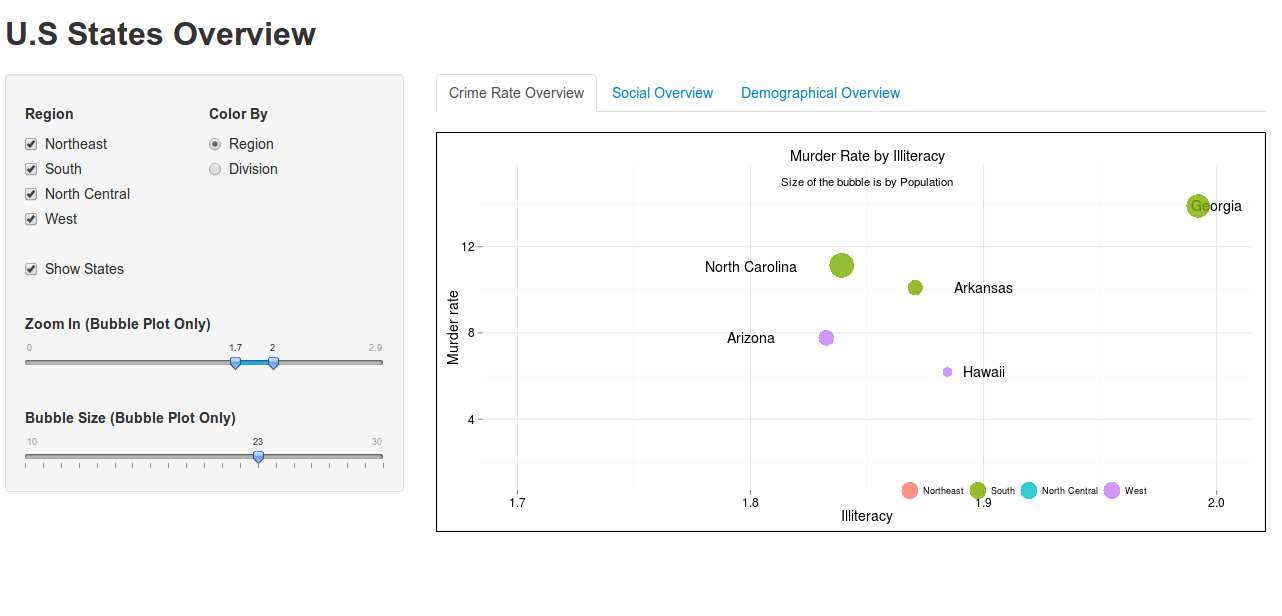
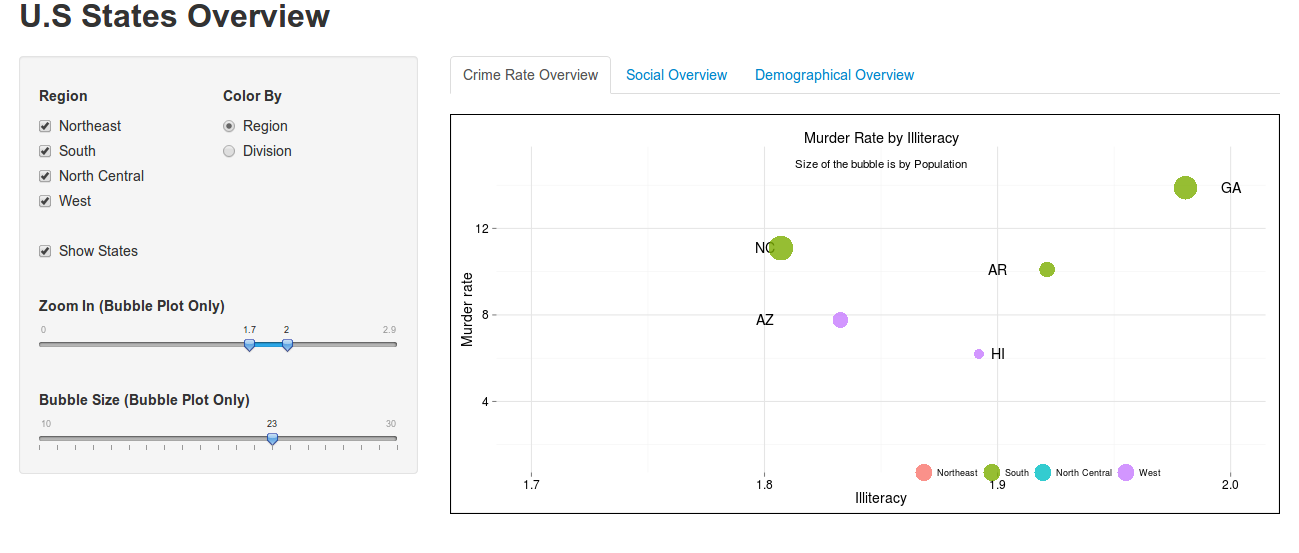
Updated the README, including using state codes instead of names and updated the code and screenshot too.

diff --git a/homework3/README.md b/homework3/README.md
@@ -23,53 +23,47 @@ shiny::runGitHub('msan622', 'deekshachugh', subdir = 'homework3')
 
 ###Crime Rate Overview###
 
+I was curious to know more about the illiteracy rate and its association with murder rate across all the states in U.S.. I chose bubble plot over Heatmap because certain attributes such as population, area of the state and other features can be shown using a Bubble Plot better.
 
-I was curious to know more about the various U.S states illiteracy rate and its association with Murder rate. I chose bubble plot over Heatmap because the attributes like population and area of the states along with other features can be well shown in the Bubble plot. 
-I included Murder rate, Illiteracy rate, State Names, Population and Region to show how illiteracy rate is related to Murder rate for different states of U.S. I chose regions or divisions to color the bubbles and shown state names on top of it.
-I tried to increase and decrease the size of the bubbles to see that it is visually appealing. 
+The bubble plot displays murder rate, illiteracy rate and population for each state. It also maps which region each of the state belongs to. Each state is marked by its state code and its color represents its region.
+The plot includes a slider to allow the user to change the size of the bubbles to make it visually appealing and more usable. 
 
-
-Here is the screenshot of the visualization.
+Here is the screenshot of the visualization:
 ![IMAGE](Technique1.png)
 
-There are various ways in which you can interact with this visualization.
-First, you can color the bubbles by region or division. Second, the bubbles can be filtered based on the region.
-Third, you can zoom into the visualization by selecting the range of x-axis. The bubble size can also be changed by the slider.
-
-You can also show states by checkbox:
-
+There are various ways in which the user can interact with this visualization:
+* Color the bubbles by region or division.
+* Filter based on the region.
+* Zoom into the visualization by selecting the range of x-axis.
+* Change the size of the bubbles using the slider.
+* Show/hide state codes, as shown in the image below.
 ![IMAGE](Technique10.png)
 
- The visualization helps us to see illiteracy rate by murder rate for different regions. The application also provides the state names and the population of the state which can be other factors for murder or illiteracy. Since a few of the bubbles are overlapping, the application provides a framework to zoom, which is helpful in answering particular questions like "What was the illiteracy rate in CA?"
+The visualization shows illiteracy rate by murder rate for different states and regions. The application provides the state code and the population of each state. Since some of the bubbles overlap, the application provides a framework to zoom, which is helpful in answering particular questions, such as "What was the illiteracy rate in CA?"
 
 
 ###Social Overview###
 
-I was interested in looking at how few features are interlinked in just one plot. The scatter plot matrix provides a way to look at a lot of features in one visualization.  I included Illiteracy, Life expectancy, Murder rate, and HS graduation because my hypothesis was that these should be highly dependent on each other. I colored the data points with different regions which will provide the holistic view of US and will help in inferences.
+I was interested in looking at how few features are interlinked in just one plot. The scatter plot matrix provides a way to look at a lot of features in one visualization.  I included illiteracy, life expectancy, murder rate, and HS graduation because my hypothesis was that these should be highly dependent on each other. I colored the data points based on regions to provide a holistic view and help in deriving inferences.
 
 
-The lower part of the matrix provides a view about how the various features are scattered. I changed the diagonal of the matrix to be the density of the features to get a rough idea about its distribution. The upper part of the scatter plot provides the actual correlation numbers which are helpful in making inferences about the data. I tried to color the points by Division as well but since there are 8 divisions it would be hard to see in small plots. I extracted each of the ggplots from the ggpairs to make customization like darkening the axes and changed the background from grey to white.
+The lower part of the matrix provides a view about how the various features are scattered. I changed the diagonal of the matrix to be the density of the features to get a rough idea about its distribution. The upper part of the scatter plot provides the actual correlation numbers. I have colored the points by division as well but since there are 8 divisions, it is a little hard to see in small plots. I extracted each of the ggplots from the ggpairs and appled customizations such as darkening the axes, changing the background from grey to white, etc.
 
-
-Here is the screenshot of the visualization.
+Here is the screenshot of the visualization:
 ![IMAGE](Technique2.png)
 
 
 You can filter the regions and see the distribution of each of the regions for all the features.
-I could not prvide the zoom in feature as the different plots in the matrix have different regions.
-By looking at the correlation values, we can see that Life expectancy has the highest correlation with Murder rate followed by Illiteracy and Murder and so on.
+I could not prvide the zoom feature as the different plots in the matrix have different regions.
+By looking at the correlation values, we can see that life expectancy has the highest correlation with murder rate, followed by illiteracy and so on.
 
 
 ###Demographical Overview###
 
-I chose this technique because it helps us to find patterns in our data with multiple features. I included Population, Area, Income and Frost level to show demographical overview of the US states. The lines in the plot are colored by regions or division based on what you select. I tried various scaling for the data and found the uniminmax works best for this dataset. I removed the actual values and bounded the data with just the limits. I removed the grid lines and changed the background to black as it is easier to see lines over black background.
+I chose this technique because it helps us to find patterns in our data with multiple features. I included population, area, income and frost level to show demographical overview of the US states. The lines in the plot are colored by regions or division, based on what the user selects. I tried using various scaling techniques on the data and found that `uniminmax` works best for this dataset. I removed the actual values and bound the data with just the limits. I removed the grid lines and changed the background to black as it is easier more appealing.
 
 
-Here is the screenshot of the visualization.
+Here is the screenshot of the visualization:
 ![IMAGE](Technique3.png)
 
-Any of the regions and division can be selected by the input box on the left side. The plot shows us the relationship between Population Area, Frost and Income of the state. West region has high frost compared to South. We can see that there are few outliers in the dataset which have very high population and very low area. 
-
-
-
-
+Any of the regions and division can be selected by the input box on the left side. The plot shows us the relationship between population, area, frost, and income of the state. It shows that West region has high frost compared to South. We can see that there are few outliers in the dataset that have very high population, but very low area.
